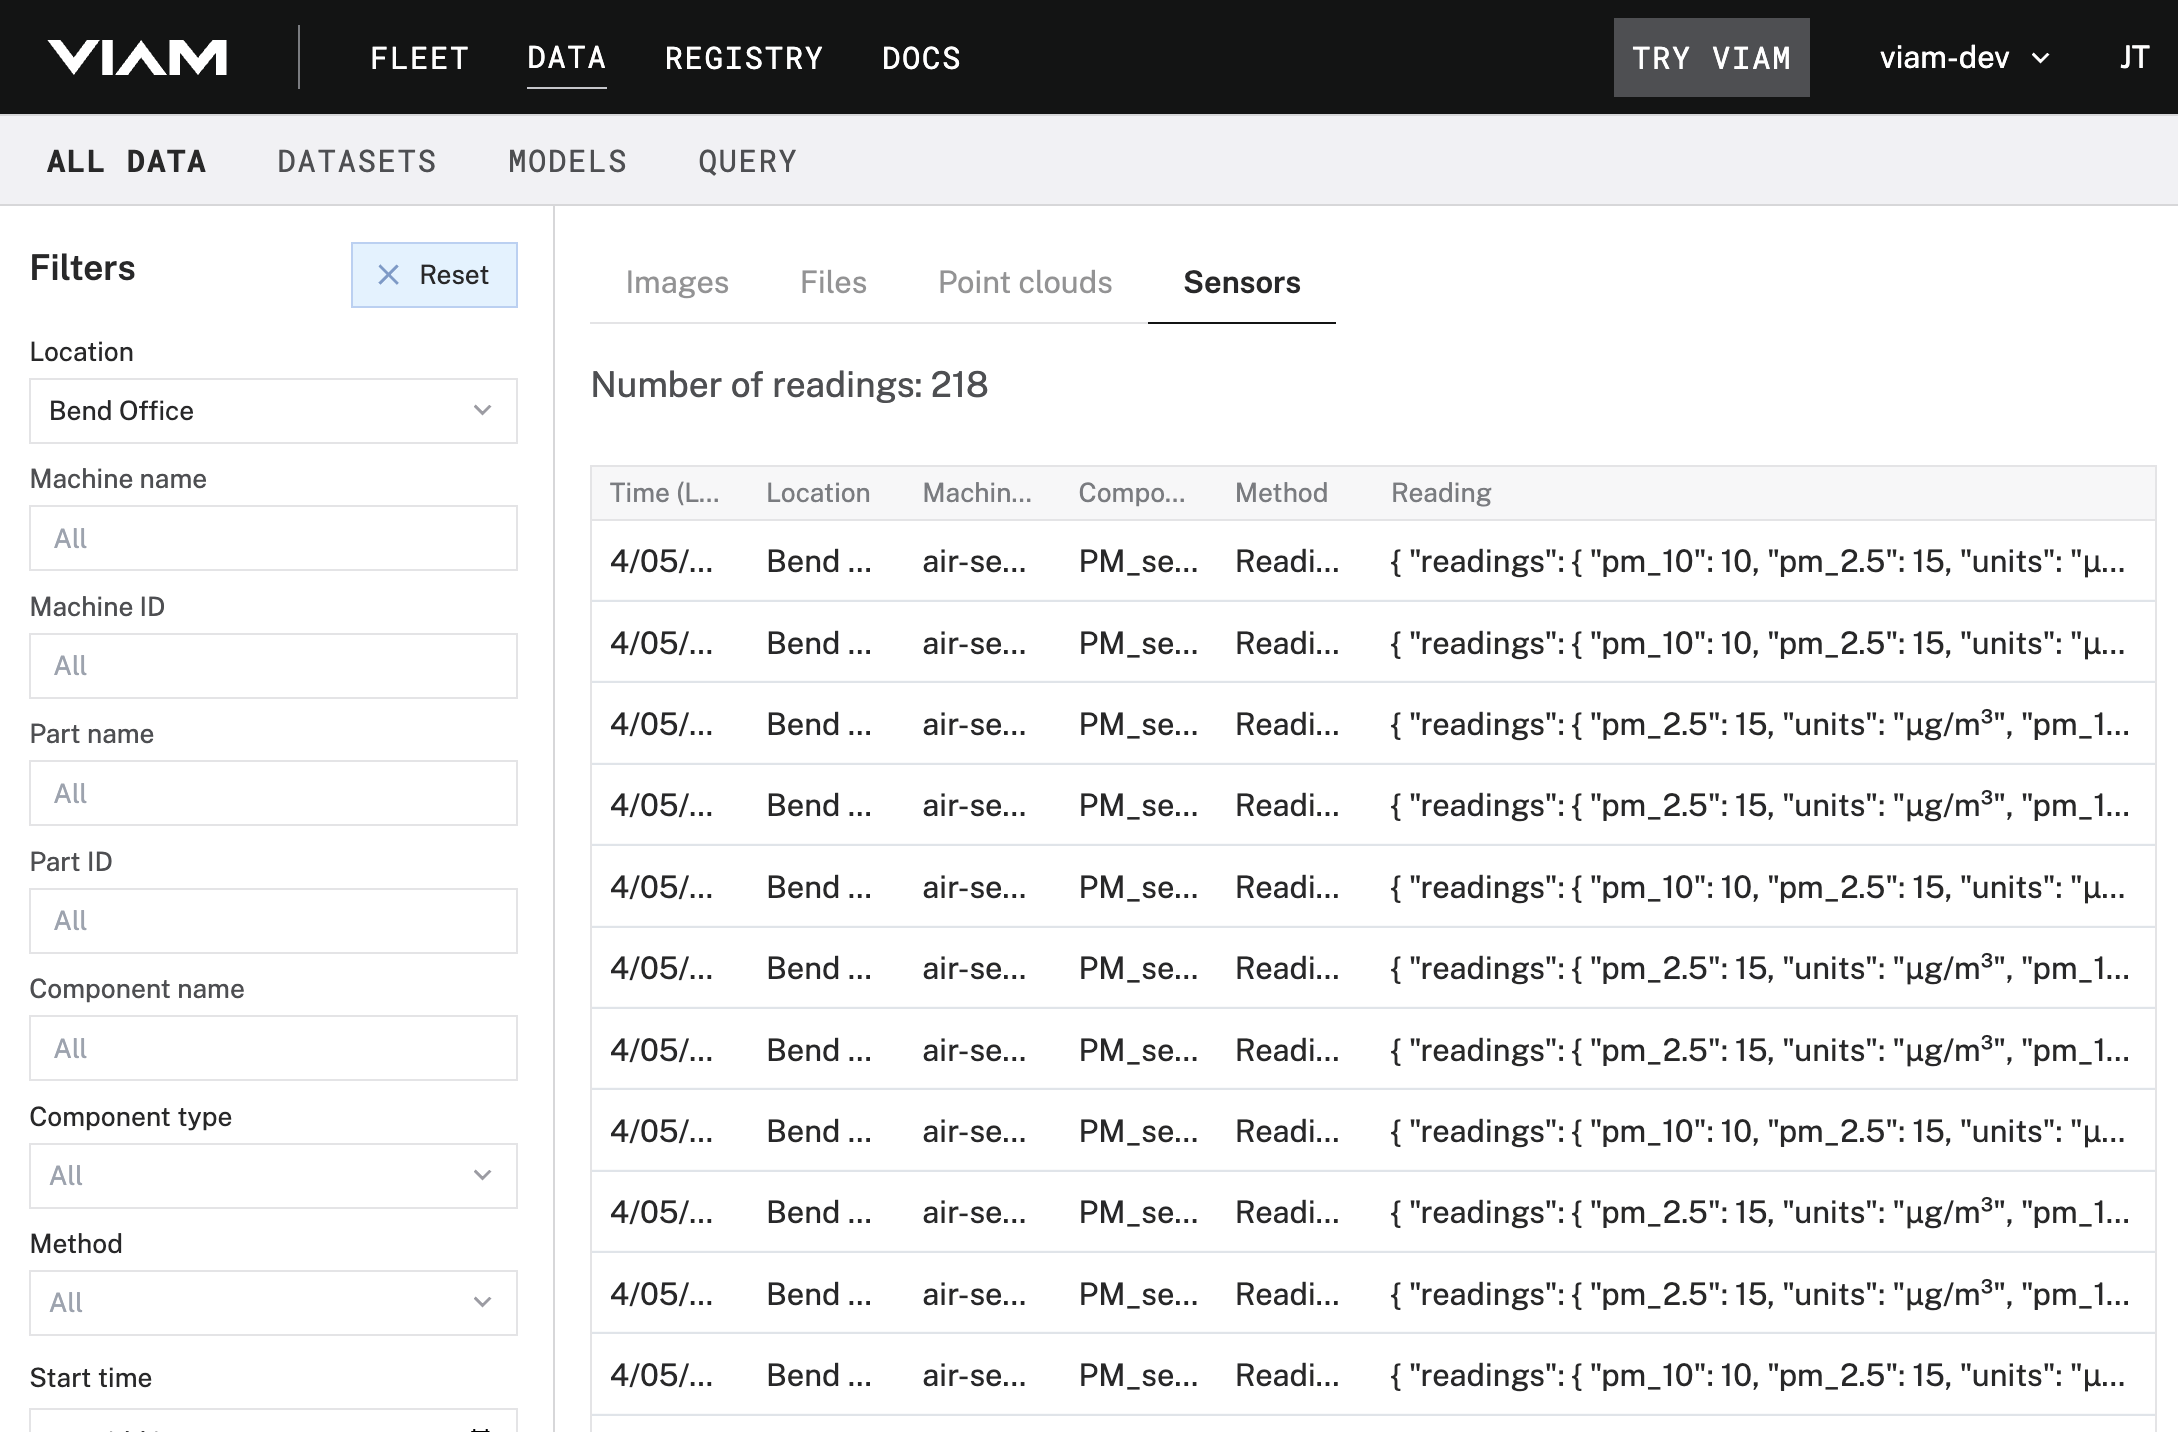
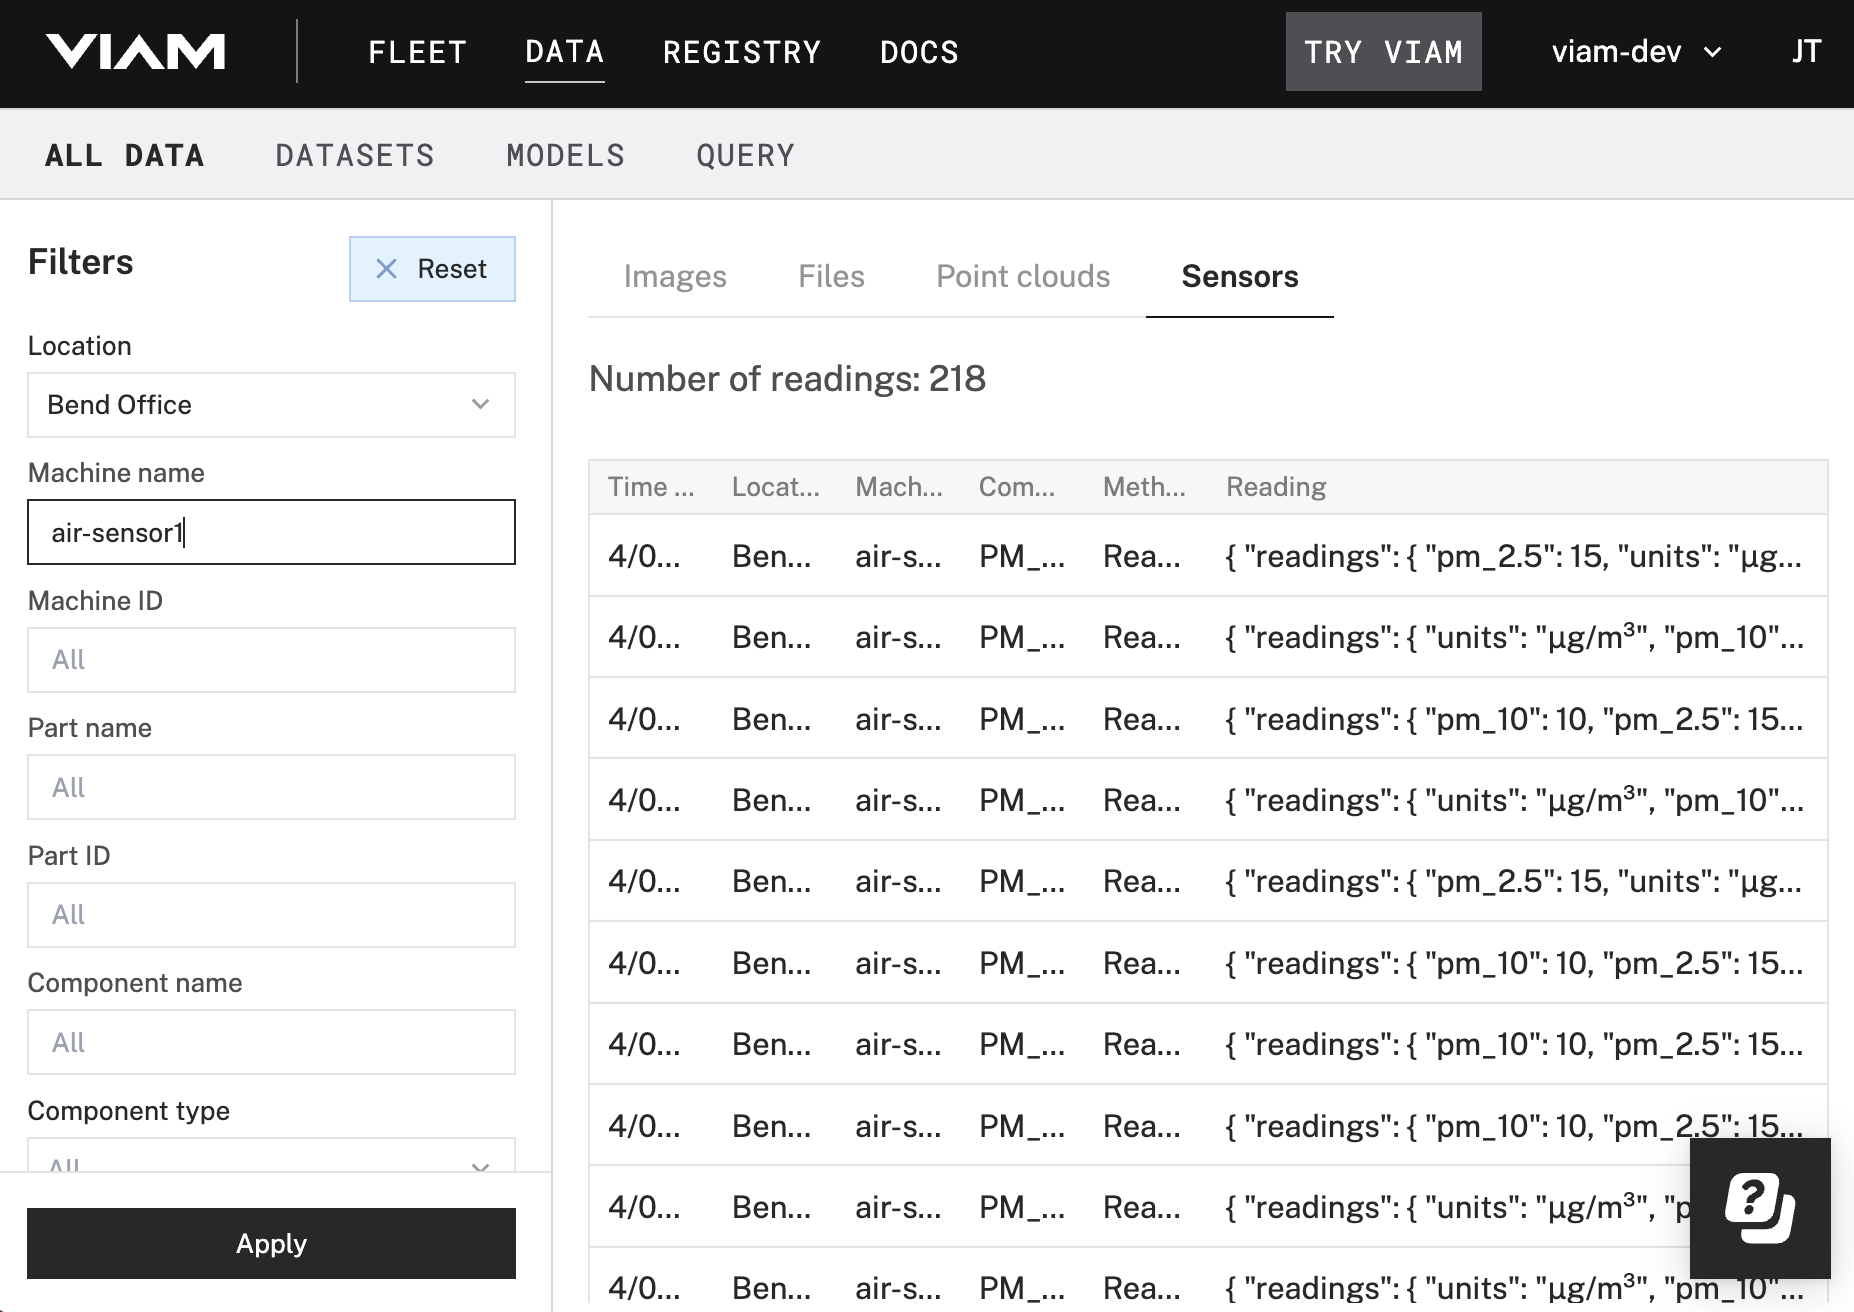
Add TODO, add data filtering,  and update image with filtered data

diff --git a/docs/tutorials/control/air-quality-fleet.md b/docs/tutorials/control/air-quality-fleet.md
@@ -103,6 +103,8 @@ This way, if you need to update the config in the future, you just update the fr
 }
 ```
 
+<!-- TODO: Instruct users as to how to find the correct usb_interface path. See whether or not this needs to be different for each machine, in which case could actually show fragment mods! -->
+
 6. Save the config.
    Your machine config should now resemble the following:
 
@@ -181,6 +183,7 @@ For each machine:
    Open your [**DATA** page](https://app.viam.com/data).
 4. Click the **Sensors** tab within the data page.
    If you have sensor data coming from machines unrelated to this project, use the filters on the left side of the page to view data from only your air quality sensors.
+   You can also use these filters to show the data from one of your air quality sensors at a time by typing a machine name into the **Machine name** box and clicking **Apply** in the lower-left corner.
 
    {{<imgproc src="/tutorials/air-quality-fleet/synced-data.png" resize="x1100" declaredimensions=true alt="The sensor readings that have synced to the DATA page." style="max-width:600px" >}}
 
